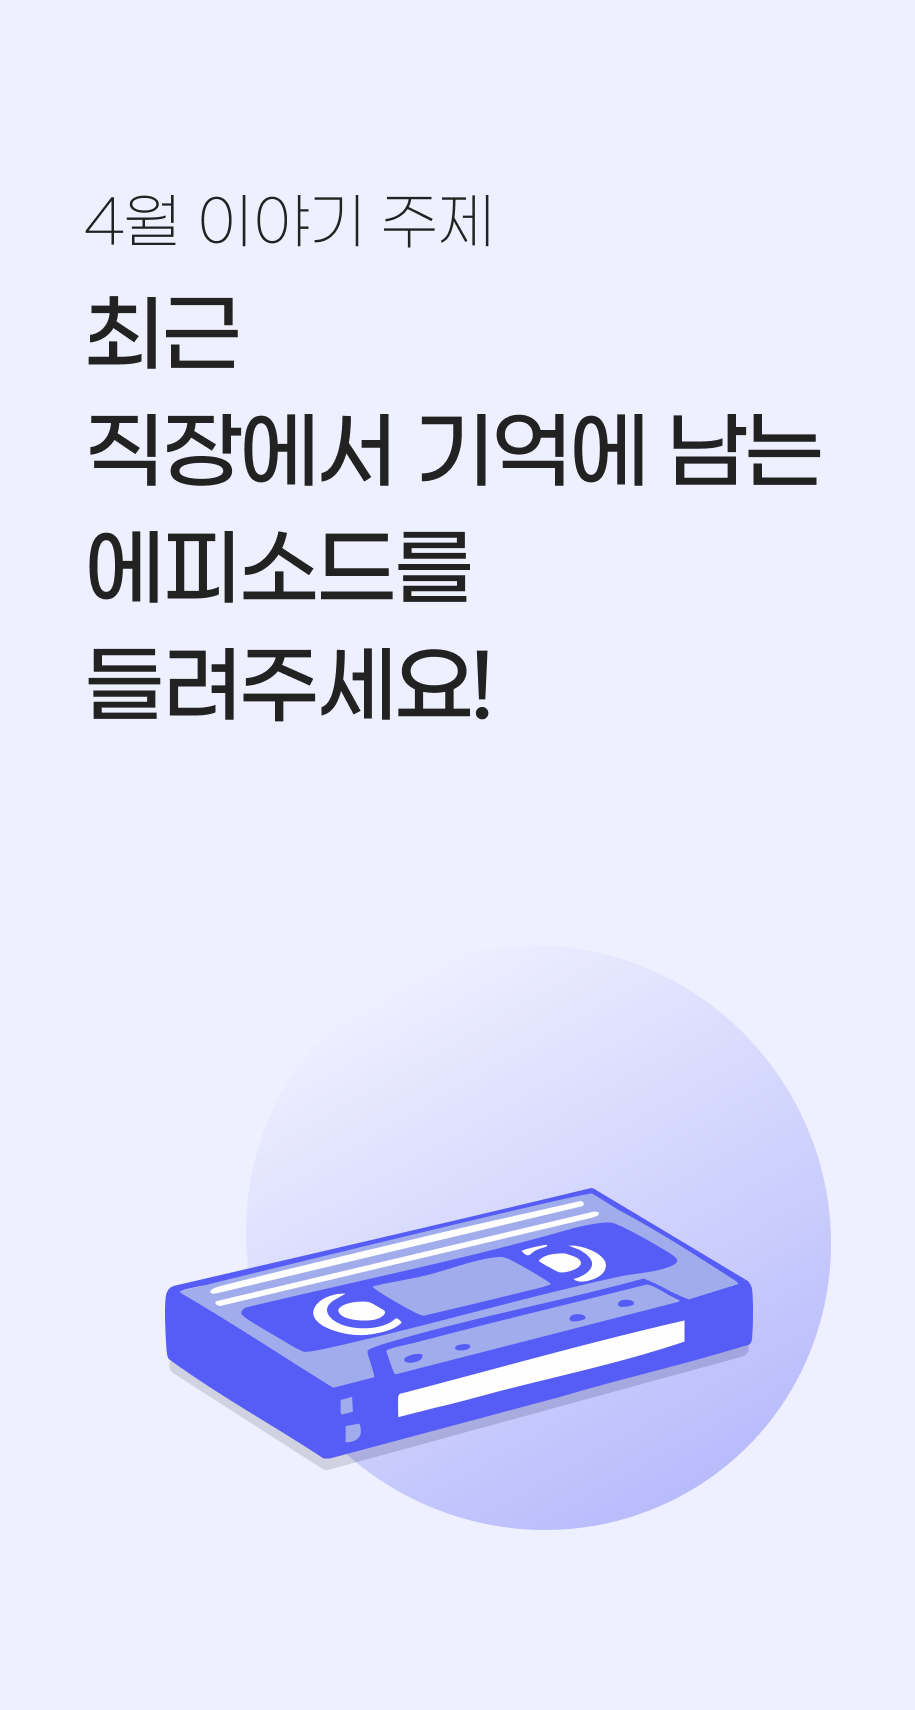
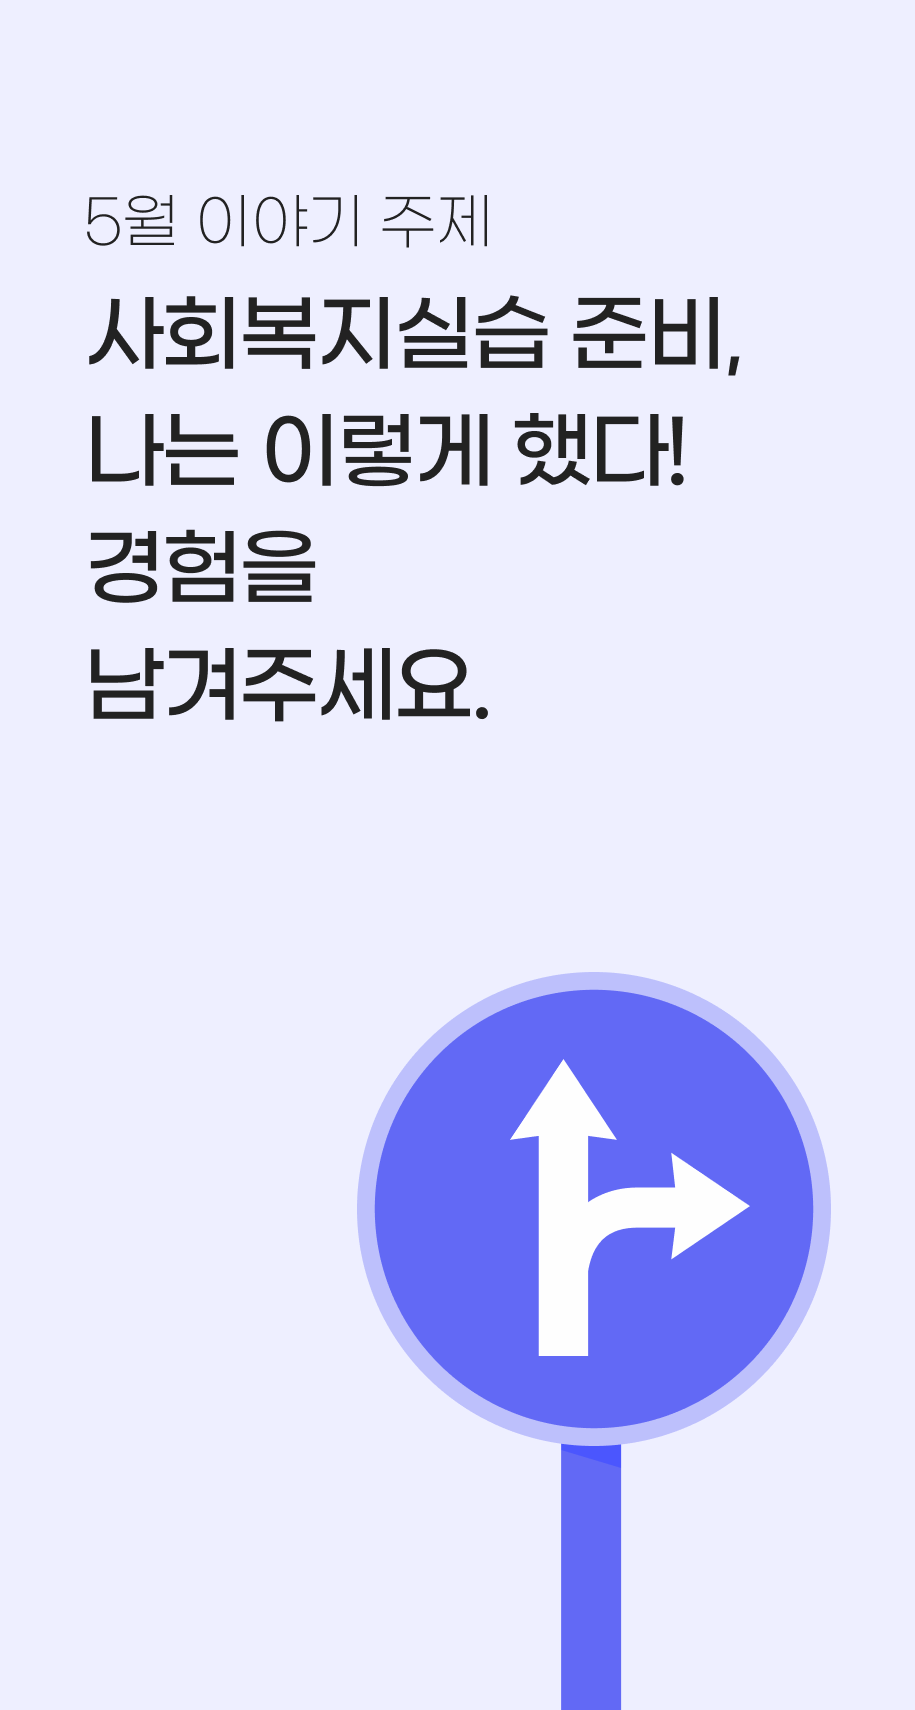
update monthly event

Changed region(s): [[0.1836, 0.5579, 0.918, 1.0], [0.0918, 0.093, 0.8874, 0.4339], [0.5202, 0.3719, 0.5508, 0.4029]]

diff --git a/src/pages/common/Home.tsx b/src/pages/common/Home.tsx
@@ -266,15 +266,17 @@ const Home = () => {
             <div className={`${styles.banner} ${styles.banner_community}`}>
               <div className={styles.opacity}></div>
               <div className={styles.content}>
-                <button type="button" onClick={() => navigate("/notice/7")}>
+                <button type="button" onClick={() => navigate("/notice/5")}>
                   이벤트 참여하기
                 </button>
                 {winInnerWidth >= 768 ? (
-                  <h3>4월 이벤트</h3>
+                  <h3>5월 이벤트</h3>
                 ) : (
-                  <h4>4월 이벤트</h4>
+                  <h4>5월 이벤트</h4>
                 )}
-                <span>최근 직장에서 기억에 남는 에피소드를 들려주세요!</span>
+                <span>
+                  사회복지실습 준비, 나는 이렇게 했다! 경험을 남겨주세요.
+                </span>
               </div>
             </div>
             <div className={`${styles.banner} ${styles.banner_training}`}>

diff --git a/src/pages/community/Community.tsx b/src/pages/community/Community.tsx
@@ -77,11 +77,11 @@ const Community = () => {
         <div className={`${styles.banner} ${styles.banner_community}`}>
           <div className={styles.opacity}></div>
           <div className={styles.content}>
-            <button type="button" onClick={() => navigate("/notice/7")}>
+            <button type="button" onClick={() => navigate("/notice/8")}>
               이벤트 참여하기
             </button>
-            <h4>4월 이벤트</h4>
-            <span>최근 직장에서 기억에 남는 에피소드를 들려주세요!</span>
+            <h4>5월 이벤트</h4>
+            <span>사회복지실습 준비, 나는 이렇게 했다! 경험을 남겨주세요.</span>
           </div>
         </div>
         <div className={styles.weekly_wrap}>
